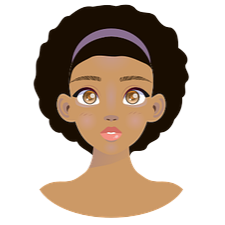
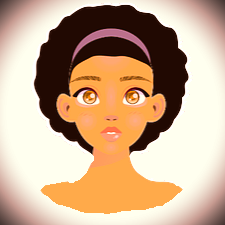
Added CSS Styling and changed photos

diff --git a/src/main/resources/templates/overdue.html b/src/main/resources/templates/overdue.html
@@ -1,25 +1,40 @@
 <html xmlns:th="http://www.thymeleaf.org">
 <head>
 <meta charset="UTF-8">
-<title>View All Movies</title>
+<title>Overdue Movies</title>
+<link rel="stylesheet" href="style.css">
 </head>
-<body>
+<body class="column">
+<header class="column">
+    <h1>Des Moines Video Rental</h1>
+    <p>123 NW 1234th Ave<br>
+    Des Moines, IA 50319<br>
+    +1 (515)-123-1234</p>
+</header>
 	<form>
 		<table>
+		<th>Movie Name</th>
+		<th>Checkout ID</th>
+		<th>Member Name</th>
+		<th>Member ID</th>
+		<th>Checkout Date</th>
+		<th>Due Date</th>
 			<tr th:each="currentCheckOut : ${checkedOut}" id="overdueTable">
 				<td th:text="${currentCheckOut.Movie.movieName}" />
 				<td th:text="${currentCheckOut.Movie.uniqueCheckoutId}" />
+				<td th:text="${currentCheckOut.Member.name}" />
 				<td th:text="${currentCheckOut.Member.Id}" />
-				<td th:text="${currentCheckOut.checkoutDate}" />
 				<td th:text="${currentCheckOut.checkoutDate}" />
 				<td style="color:red;" th:text="${currentCheckOut.checkinDate}" />
 			</tr>
 		</table>
 	</form>
-	<a href="../addNewMovie">Add a new Movie</a>
-	
-	
-	<script>
-	</script>
+<div class="row">
+<button class="column nav-buttons" onclick="document.location='/viewAllMovies'"><img src="/images/movie_img.png" class="buttons" >Manage Movies</button>
+<button class="column nav-buttons" onclick="document.location='/checkout'"><img src="/images/movie_img.png" class="buttons">Checkout</button>
+<button class="column nav-buttons" onclick="document.location='/checkin'"><img src="/images/movie_img.png" class="buttons">Check In</button>
+<button class="column nav-buttons" onclick="document.location='/viewAllMembers'"><img src="/images/person_img.png" class="buttons">Manage Members</button>
+<button class="column nav-buttons" onclick="document.location='/viewAllMembers'"><img src="/images/question_mark.png" class="buttons">Reports</button>
+</div>
 </body>
 </html>

diff --git a/src/main/resources/templates/checkedoutmovies.html b/src/main/resources/templates/checkedoutmovies.html
@@ -1,8 +1,7 @@
-
 <html xmlns:th="http://www.thymeleaf.org">
 <head>
-<meta charset="ISO-8859-1">
-<title>Des Moines Video Rental</title>
+<meta charset="UTF-8">
+<title>View All Checked Out Movies</title>
 <link rel="stylesheet" href="style.css">
 </head>
 <body class="column">
@@ -12,12 +11,29 @@
     Des Moines, IA 50319<br>
     +1 (515)-123-1234</p>
 </header>
+	<form>
+		<table>
+		<th>Movie Name</th>
+		<th>Checkout ID</th>
+		<th>Member Name</th>
+		<th>Member ID</th>
+		<th>Checkout Date</th>
+		<th>Due Date</th>
+			<tr th:each="currentCheckOut : ${checkedOut}" id="overdueTable">
+				<td th:text="${currentCheckOut.Movie.movieName}" />
+				<td th:text="${currentCheckOut.Movie.uniqueCheckoutId}" />
+				<td th:text="${currentCheckOut.Member.name}" />
+				<td th:text="${currentCheckOut.Member.Id}" />
+				<td th:text="${currentCheckOut.checkoutDate}" />
+				<td th:text="${currentCheckOut.checkinDate}" />
+			</tr>
+		</table>
+	</form>
 <div class="row">
-<<button class="column nav-buttons" onclick="document.location='/viewAllMovies'"><img src="/images/movie_img.png" class="buttons" >Manage Movies</button>
+<button class="column nav-buttons" onclick="document.location='/viewAllMovies'"><img src="/images/movie_img.png" class="buttons" >Manage Movies</button>
 <button class="column nav-buttons" onclick="document.location='/checkout'"><img src="/images/movie_img.png" class="buttons">Checkout</button>
 <button class="column nav-buttons" onclick="document.location='/checkin'"><img src="/images/movie_img.png" class="buttons">Check In</button>
 <button class="column nav-buttons" onclick="document.location='/viewAllMembers'"><img src="/images/person_img.png" class="buttons">Manage Members</button>
 <button class="column nav-buttons" onclick="document.location='/viewAllMembers'"><img src="/images/question_mark.png" class="buttons">Reports</button></div>
-</body>
 </body>
 </html>

diff --git a/src/main/resources/templates/checkout.html b/src/main/resources/templates/checkout.html
@@ -2,8 +2,15 @@
 <head>
 <meta charset="UTF-8">
 <title>Checkout</title>
+<link rel="stylesheet" href="style.css">
 </head>
-<body>
+<body class="column">
+<header class="column">
+    <h1>Des Moines Video Rental</h1>
+    <p>123 NW 1234th Ave<br>
+    Des Moines, IA 50319<br>
+    +1 (515)-123-1234</p>
+</header>
 	<form th:action="@{/checkout}" method="POST">
 		<select th:name="members">
 			<option  th:each="currentMember : ${members}" th:value="${currentMember.id}" th:text="${currentMember.id + ' ' + currentMember.name}"/>
@@ -12,10 +19,16 @@
 		<select th:name="movies" >
 			<option th:each="currentMovie : ${movies}" th:value="${currentMovie.uniqueCheckoutId}" th:text="${currentMovie.uniqueCheckoutId + ' ' + currentMovie.movieName}"/>
 		</select>
-		<input name="checkoutDate" size="20">
+		<input type="date" name="checkoutDate" size="20">
 		<button type="submit">Submit</button>
 		</form>
 		
-	<a href="../addNewMember">Add a new Member</a>
+<div class="row">
+<button class="column nav-buttons" onclick="document.location='/viewAllMovies'"><img src="/images/movie_img.png" class="buttons" >Manage Movies</button>
+<button class="column nav-buttons" onclick="document.location='/checkout'"><img src="/images/movie_img.png" class="buttons">Checkout</button>
+<button class="column nav-buttons" onclick="document.location='/checkin'"><img src="/images/movie_img.png" class="buttons">Check In</button>
+<button class="column nav-buttons" onclick="document.location='/viewAllMembers'"><img src="/images/person_img.png" class="buttons">Manage Members</button>
+<button class="column nav-buttons" onclick="document.location='/viewAllMembers'"><img src="/images/question_mark.png" class="buttons">Reports</button>
+</div>
 </body>
 </html>

diff --git a/src/main/resources/templates/movie_input.html b/src/main/resources/templates/movie_input.html
@@ -3,17 +3,29 @@
 <head>
 <meta charset="UTF-8">
 <title>Movies</title>
+<link rel="stylesheet" href="style.css">
 </head>
-<body>
+<body class="column">
+<header class="column">
+    <h1>Des Moines Video Rental</h1>
+    <p>123 NW 1234th Ave<br>
+    Des Moines, IA 50319<br>
+    +1 (515)-123-1234</p>
+</header>
 	<form th:object="${newMovie}"
 		th:action="@{/addNewMovie}"
 		method=POST onsubmit="">
-		<h3>Movie Name:</h3>
-		<input name="movieName" size="20" th:field="*{movieName}"> <br />
+		Movie Name: <input name="movieName" size="20" th:field="*{movieName}"> <br />
 		Movie Group ID: <input name="movieId" size="10" th:field="*{movieId}"><br />
 		Unique Movie ID: <input name="uniqueCheckoutId" size="20"
 			th:field="*{uniqueCheckoutId}"><br /> <input name="submit"
 			type="submit" value="submit" />
 	</form>
+<div class="row">
+<button class="column nav-buttons" onclick="document.location='/viewAllMovies'"><img src="/images/movie_img.png" class="buttons" >Manage Movies</button>
+<button class="column nav-buttons" onclick="document.location='/checkout'"><img src="/images/movie_img.png" class="buttons">Checkout</button>
+<button class="column nav-buttons" onclick="document.location='/checkin'"><img src="/images/movie_img.png" class="buttons">Check In</button>
+<button class="column nav-buttons" onclick="document.location='/viewAllMembers'"><img src="/images/person_img.png" class="buttons">Manage Members</button>
+<button class="column nav-buttons" onclick="document.location='/viewAllMembers'"><img src="/images/question_mark.png" class="buttons">Reports</button></div>
 </body>
 </html>

diff --git a/src/main/resources/templates/member_results.html b/src/main/resources/templates/member_results.html
@@ -2,10 +2,22 @@
 <head>
 <meta charset="UTF-8">
 <title>View All Members</title>
+<link rel="stylesheet" href="style.css">
 </head>
-<body>
+<body class="column">
+<header class="column">
+    <h1>Des Moines Video Rental</h1>
+    <p>123 NW 1234th Ave<br>
+    Des Moines, IA 50319<br>
+    +1 (515)-123-1234</p>
+</header>
 	<form>
 		<table>
+		<th>Name</th>
+		<th>Memebr ID</th>
+		<th>Member Since</th>
+		<th>Edit</th>
+		<th>Delete</th>
 			<tr th:each="currentMember : ${members}">
 				<td th:text="${currentMember.name}" />
 				<td th:text="${currentMember.id}" />
@@ -14,7 +26,14 @@
 				<td><a th:href="@{/deleteMember/{id}(id=${currentMember.id})}">Delete</a></td>
 			</tr>
 		</table>
+		<a href="../addNewMember">Add a new Member</a>
 	</form>
-	<a href="../addNewMember">Add a new Member</a>
+<div class="row">
+<button class="column nav-buttons" onclick="document.location='/viewAllMovies'"><img src="/images/movie_img.png" class="buttons" >Manage Movies</button>
+<button class="column nav-buttons" onclick="document.location='/checkout'"><img src="/images/movie_img.png" class="buttons">Checkout</button>
+<button class="column nav-buttons" onclick="document.location='/checkin'"><img src="/images/movie_img.png" class="buttons">Check In</button>
+<button class="column nav-buttons" onclick="document.location='/viewAllMembers'"><img src="/images/person_img.png" class="buttons">Manage Members</button>
+<button class="column nav-buttons" onclick="document.location='/viewAllMembers'"><img src="/images/question_mark.png" class="buttons">Reports</button>
+</div>
 </body>
 </html>

diff --git a/src/main/resources/templates/movie_results.html b/src/main/resources/templates/movie_results.html
@@ -2,10 +2,22 @@
 <head>
 <meta charset="UTF-8">
 <title>View All Movies</title>
+<link rel="stylesheet" href="style.css">
 </head>
-<body>
+<body class="column">
+<header class="column">
+    <h1>Des Moines Video Rental</h1>
+    <p>123 NW 1234th Ave<br>
+    Des Moines, IA 50319<br>
+    +1 (515)-123-1234</p>
+</header>
 	<form>
 		<table>
+		<th>Movie Name</th>
+		<th>Checkout ID</th>
+		<th>Movie Group ID</th>
+		<th>Edit</th>
+		<th>Delete</th>
 			<tr th:each="currentMovie : ${movies}">
 				<td th:text="${currentMovie.movieName}" />
 				<td th:text="${currentMovie.uniqueCheckoutId}" />
@@ -16,5 +28,12 @@
 		</table>
 	</form>
 	<a href="../addNewMovie">Add a new Movie</a>
+<div class="row">
+<button class="column nav-buttons" onclick="document.location='/viewAllMovies'"><img src="/images/movie_img.png" class="buttons" >Manage Movies</button>
+<button class="column nav-buttons" onclick="document.location='/checkout'"><img src="/images/movie_img.png" class="buttons">Checkout</button>
+<button class="column nav-buttons" onclick="document.location='/checkin'"><img src="/images/movie_img.png" class="buttons">Check In</button>
+<button class="column nav-buttons" onclick="document.location='/viewAllMembers'"><img src="/images/person_img.png" class="buttons">Manage Members</button>
+<button class="column nav-buttons" onclick="document.location='/viewAllMembers'"><img src="/images/question_mark.png" class="buttons">Reports</button>
+</div>
 </body>
 </html>

diff --git a/src/main/resources/templates/member_input.html b/src/main/resources/templates/member_input.html
@@ -2,9 +2,15 @@
 <html xmlns:th="http://www.thymeleaf.org">
 <head>
 <meta charset="UTF-8">
-<title>Add Member</title>
+<link rel="stylesheet" href="style.css">
 </head>
-<body>
+<body class="column">
+<header class="column">
+    <h1>Des Moines Video Rental</h1>
+    <p>123 NW 1234th Ave<br>
+    Des Moines, IA 50319<br>
+    +1 (515)-123-1234</p>
+</header>
 	<form th:object="${newMember}"
 		th:action="@{/addNewMember}"
 		method=POST onsubmit="">
@@ -14,5 +20,11 @@
 		<p>Member Since: </p><input name="memberSince" size="20" th:field="*{memberSince}"><br />
 			<input name="submit" type="submit" value="submit" />
 	</form>
+<div class="row">
+<button class="column nav-buttons" onclick="document.location='/viewAllMovies'"><img src="/images/movie_img.png" class="buttons" >Manage Movies</button>
+<button class="column nav-buttons" onclick="document.location='/checkout'"><img src="/images/movie_img.png" class="buttons">Checkout</button>
+<button class="column nav-buttons" onclick="document.location='/checkin'"><img src="/images/movie_img.png" class="buttons">Check In</button>
+<button class="column nav-buttons" onclick="document.location='/viewAllMembers'"><img src="/images/person_img.png" class="buttons">Manage Members</button>
+<button class="column nav-buttons" onclick="document.location='/viewAllMembers'"><img src="/images/question_mark.png" class="buttons">Reports</button></div>
 </body>
 </html>

diff --git a/src/main/resources/templates/checkin.html b/src/main/resources/templates/checkin.html
@@ -2,12 +2,24 @@
 <head>
 <meta charset="UTF-8">
 <title>Check In Movie</title>
+<link rel="stylesheet" href="style.css">
 </head>
-<body>
+<body class="column">
+<header class="column">
+    <h1>Des Moines Video Rental</h1>
+    <p>123 NW 1234th Ave<br>
+    Des Moines, IA 50319<br>
+    +1 (515)-123-1234</p>
+</header>
 	<form th:action="@{/checkin}" method="POST">
 		Enter Movie ID: <input name="movieId">
+		<button type="submit">Submit</button>
 		</form>
-		
-	<a href="../addNewMember">Add a new Member</a>
+<div class="row">
+<button class="column nav-buttons" onclick="document.location='/viewAllMovies'"><img src="/images/movie_img.png" class="buttons" >Manage Movies</button>
+<button class="column nav-buttons" onclick="document.location='/checkout'"><img src="/images/movie_img.png" class="buttons">Checkout</button>
+<button class="column nav-buttons" onclick="document.location='/checkin'"><img src="/images/movie_img.png" class="buttons">Check In</button>
+<button class="column nav-buttons" onclick="document.location='/viewAllMembers'"><img src="/images/person_img.png" class="buttons">Manage Members</button>
+<button class="column nav-buttons" onclick="document.location='/viewAllMembers'"><img src="/images/question_mark.png" class="buttons">Reports</button></div>
 </body>
 </html>

diff --git a/src/main/resources/templates/checkinsuccessful.html b/src/main/resources/templates/checkinsuccessful.html
@@ -2,10 +2,22 @@
 <head>
 <meta charset="UTF-8">
 <title>Check In Successful</title>
+<link rel="stylesheet" href="style.css">
 </head>
-<body>
+<body class="column">
+<header class="column">
+    <h1>Des Moines Video Rental</h1>
+    <p>123 NW 1234th Ave<br>
+    Des Moines, IA 50319<br>
+    +1 (515)-123-1234</p>
+</header>
 <h1 th:text="${movie.movieName}"></h1>
 <h2>Has successfully been checked in!</h2>
-
+<div class="row">
+<button class="column nav-buttons" onclick="document.location='/viewAllMovies'"><img src="/images/movie_img.png" class="buttons" >Manage Movies</button>
+<button class="column nav-buttons" onclick="document.location='/checkout'"><img src="/images/movie_img.png" class="buttons">Checkout</button>
+<button class="column nav-buttons" onclick="document.location='/checkin'"><img src="/images/movie_img.png" class="buttons">Check In</button>
+<button class="column nav-buttons" onclick="document.location='/viewAllMembers'"><img src="/images/person_img.png" class="buttons">Manage Members</button>
+<button class="column nav-buttons" onclick="document.location='/viewAllMembers'"><img src="/images/question_mark.png" class="buttons">Reports</button></div>
 </body>
 </html>

diff --git a/src/main/resources/static/style.css b/src/main/resources/static/style.css
@@ -39,6 +39,3 @@
     .nav-buttons{
         margin: 5px;
     }
-    
-    * {
-    font-family: "Comic Sans MS", "Comic Sans", cursive;}

diff --git a/src/main/java/dmacc/controller/WebController.java b/src/main/java/dmacc/controller/WebController.java
@@ -71,14 +71,14 @@ public class WebController {
 	@PostMapping("/updateMovie/{id}")
 	public String reviseMovie(Movie m, Model model) {
 		movieRepo.save(m);
-		return viewAllMovies(model);
+		return "movie_results";
 	}
 	
 	@GetMapping("/editMovie/{id}")
 	public String showUpdateStringMovie(@PathVariable("id") long id, Model model) {
 		Movie m = movieRepo.findById(id).orElse(null);
 		model.addAttribute("newMovie", m);
-		return "movie_input";
+		return viewAllMovies(model);
 	}
 	
 	@GetMapping("/deleteMovie/{id}")
@@ -119,7 +119,7 @@ public class WebController {
 	@PostMapping("/updateMember/{id}")
 	public String reviseMember(Member m, Model model) {
 		memberRepo.save(m);
-		return viewAllMembers(model);
+		return "member_results";
 	}
 	
 	@GetMapping("/editMember/{id}")
@@ -133,7 +133,7 @@ public class WebController {
 	public String deleteMember(@PathVariable("id") long id, Model model) {
 		Member m = memberRepo.findById(id).orElse(null);
 		memberRepo.delete(m);
-		return viewAllMembers(model);
+		return "member_results";
 	}
 	
 	@GetMapping("/checkout")
@@ -173,14 +173,21 @@ public class WebController {
 	
 
 	@GetMapping("/overdue")
-	public String checkedOut(Model model) {
+	public String overdueMovies(Model model) {
 		if (checkedOutRepo.findAll(sortByDate) != null) {
 			model.addAttribute("checkedOut", checkedOutRepo.findByCheckoutDateLessThan(LocalDate.now()));
-			System.out.println();
-			System.out.println(123);
 			return "overdue";
 		}
 		return "index";
 	}
 	
+	
+	@GetMapping("/checkedoutmovies")
+	public String checkedOut(Model model) {
+		if (checkedOutRepo.findAll(sortByDate) != null) {
+			model.addAttribute("checkedOut", checkedOutRepo.findAll());
+			return "checkedoutmovies";
+		}
+		return "index";
+	}
 }
